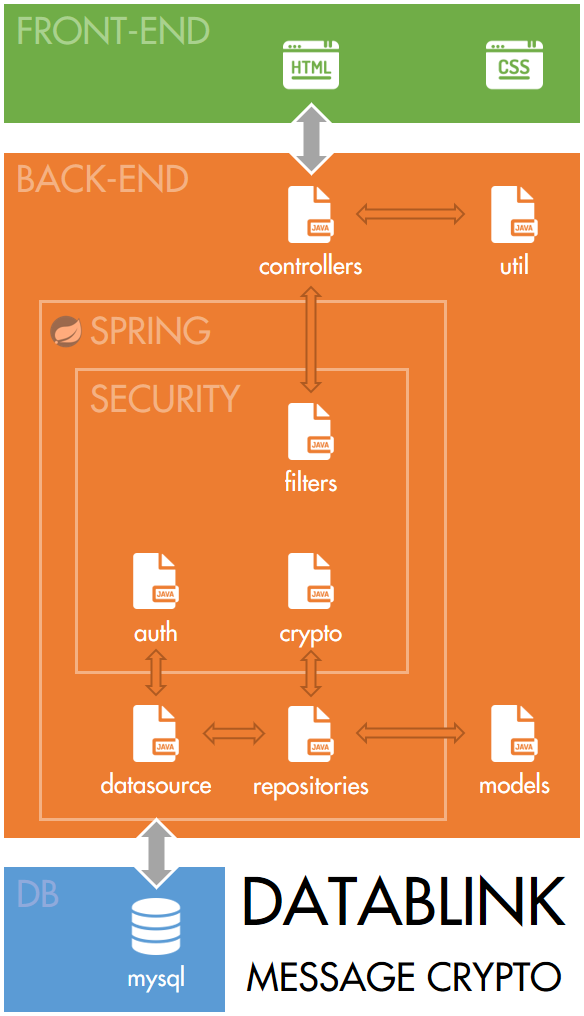
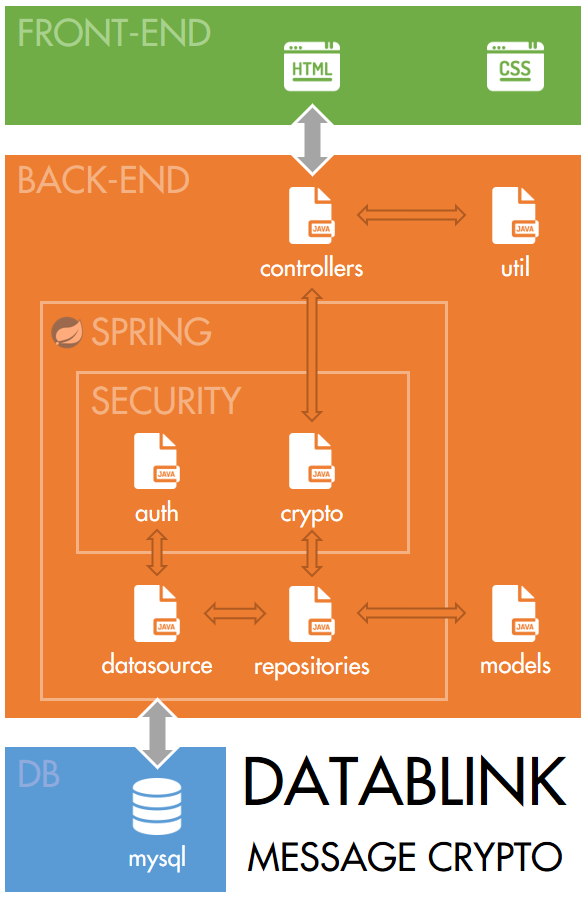
Removed filtering requirements
All data escaping required to prevent against SQL injections and XSS is
already managed by Spring and Thymeleaf, removing the need for custom
handling

- Updated README: milestones and challenges

- Updated architectural diagram

Changed region(s): [[0.0, 0.0, 1.0, 0.9978]]

diff --git a/src/main/java/arturhgca/datablink/messagecrypto/controllers/MessageController.java b/src/main/java/arturhgca/datablink/messagecrypto/controllers/MessageController.java
@@ -61,7 +61,6 @@ public class MessageController
         String username = Util.getUsername();
         message.setUsername(username);
 
-        // TO-DO: filter
         message = encryptMessage(message);
         messageRepository.save(message);
 
@@ -126,7 +125,8 @@ public class MessageController
     private Message encryptMessage(Message message)
     {
         Object credentials = Util.getCredentials();
-        String cryptoKey = bCryptPasswordEncoder.encode(credentials.toString()); // bcrypt: $version$cost$salthash, with 22 chars for salt
+        // bcrypt: $version$cost$salthash, with 22 chars for salt
+        String cryptoKey = bCryptPasswordEncoder.encode(credentials.toString());
         // Spring BCrypt considers version and cost as part of the salt, so:
         String cryptoKeySalt = cryptoKey.substring(0, 29);
         message.setCryptoKeySalt(cryptoKeySalt);

diff --git a/src/main/java/arturhgca/datablink/messagecrypto/controllers/AccessController.java b/src/main/java/arturhgca/datablink/messagecrypto/controllers/AccessController.java
@@ -63,8 +63,6 @@ public class AccessController
     @RequestMapping(value = "/register", method = RequestMethod.POST)
     public String register(@Valid @ModelAttribute User user, BindingResult bindingResult)
     {
-        // TO-DO: filter
-
         if(bindingResult.hasErrors())
         {
             return "register";

diff --git a/README.md b/README.md
@@ -56,7 +56,7 @@ This will remove any previous builds, create a uber-jar (that is, a jar file whi
 - ~~Implement persistence~~ 
 - ~~Secure credentials~~
 - ~~Implement message encryption/decryption~~
-- **Implement input sanitization** ◀
+- ~~Implement input sanitization~~
 - **Improve documentation** ◀
 - **Treat exceptions** ◀
 - Improve UI/UX
@@ -84,4 +84,5 @@ The project uses the following technologies (so far):
   - ~~What to use as IV? Randomly generate an IV for each new message and store it~~ Since a new encryption key is used for each message, there is no need for an IV; nonetheless, it is used
   - ~~How to actually handle the encryption/decryption?~~ Spring Security has this covered, but it needs [Oracle JCE](https://stackoverflow.com/questions/6481627/java-security-illegal-key-size-or-default-parameters/6481658#6481658) for the app to run because of JRE limitations
 - ~~How to prevent SQL injections/XSS?~~ Parameterized queries for SQL and input sanitization, such as HTML escaping.
-  - With the Spring Boot JPA implementation, the simple database access this application needs doesn't need custom queries. Furthermore, only the username needs to be filtered to protect against SQL injections, since all other fields are encrypted in the back-end.
+  - With the Spring Boot JPA implementation, the simple database access this application needs doesn't need custom queries. Because of this, there is no need to worry about SQL injections.
+  - About XSS: Thymeleaf already HTML escapes all output unless it's in a `th:utext` (unescaped) field.
